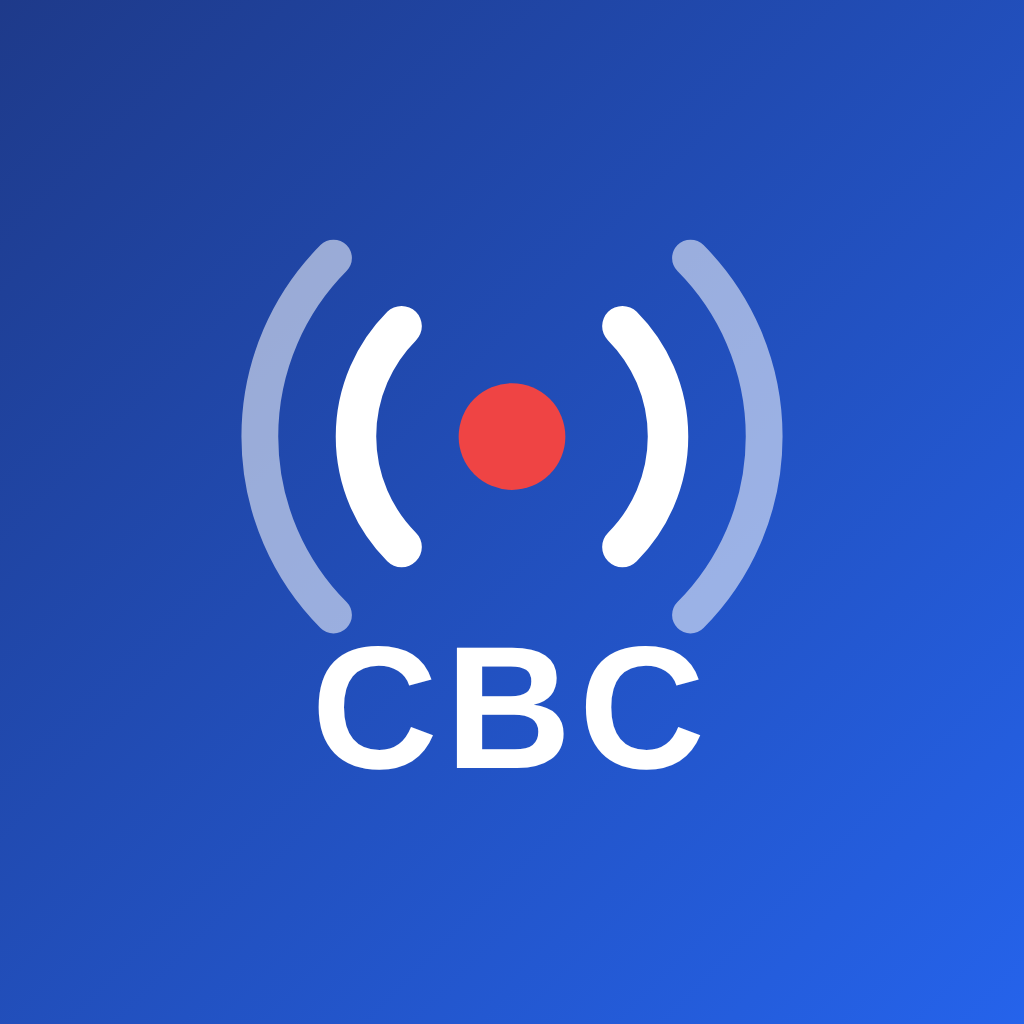
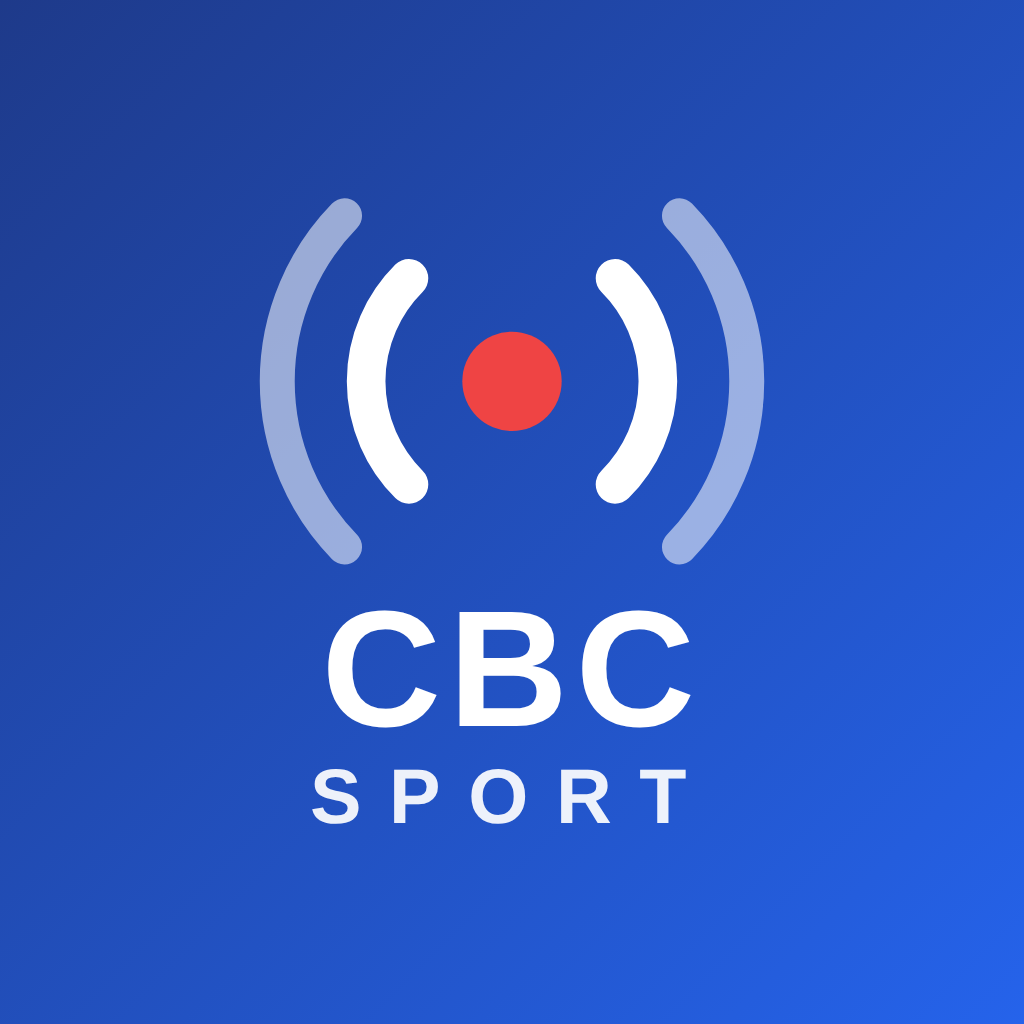
Add files via upload

Changed region(s): [[0.2188, 0.1875, 0.7812, 0.8125]]

diff --git a/www/js/app.js b/www/js/app.js
@@ -38,8 +38,7 @@
             s.shoots = []; s.people = {}; s.meta = defaultState().meta;
         }
         s.history = s.history || [];
-        s.work = Object.assign(defaultState().work, s.work || {});
-        s.work.durations = Object.assign(defaultState().work.durations, (s.work && s.work.durations) || {});
+        s.work = defaultState().work; // sabit qaydalar (ayarlar paneli çıxarılıb)
         return s;
     }
     function save() {
@@ -470,14 +469,6 @@
         const monthM = allMine().filter(s => C.monthKey(s.date) === monthKey).reduce((a, s) => a + shootMinutes(s).m, 0);
         $('month-hours').innerHTML = 'Ay üzrə cəmi: <strong class="text-gray-900">' + fmtH(monthM) + '</strong> · boz xətt — həftəlik norma';
     }
-    function renderWorkSettings() {
-        const labels = ['Futbol', 'Basketbol', 'Voleybol', 'Futzal', 'Həndbol', 'Digər'];
-        $('dur-inputs').innerHTML = labels.map(k =>
-            '<label class="flex items-center justify-between gap-1 bg-white border border-gray-200 rounded-lg px-2 py-1"><span class="text-gray-700">' + k + '</span>' +
-            '<span class="flex items-center gap-1"><input data-dur="' + k + '" type="number" min="0.5" max="12" step="0.25" inputmode="decimal" value="' + state.work.durations[k] + '" class="w-12 text-right text-sm bg-transparent"><span class="text-gray-400">s</span></span></label>').join('');
-        $('norm-input').value = state.work.norm;
-    }
-
     function updateStats() {
         const key = $('stats-month').value;
         const pal = palette();
@@ -951,18 +942,9 @@
             if (del) { deleteShoot(del.dataset.del); }
         });
 
-        $('open-stats').onclick = () => { selectedWeek = null; fillMonths(); renderWorkSettings(); $('norm-label').textContent = state.work.norm + ' saat'; updateStats(); openModal('stats-modal'); };
+        $('open-stats').onclick = () => { selectedWeek = null; fillMonths(); updateStats(); openModal('stats-modal'); };
         $('stats-month').onchange = () => { selectedWeek = null; updateStats(); };
         $('week-rows').addEventListener('click', e => { const b = e.target.closest('[data-week]'); if (b) { selectedWeek = b.dataset.week; renderWeeks($('stats-month').value); } });
-        $('dur-inputs').addEventListener('change', e => {
-            const i = e.target.closest('[data-dur]'); if (!i) return;
-            const v = parseFloat(String(i.value).replace(',', '.'));
-            if (v > 0 && v <= 12) { state.work.durations[i.dataset.dur] = v; save(); updateStats(); } else i.value = state.work.durations[i.dataset.dur];
-        });
-        $('norm-input').addEventListener('change', e => {
-            const v = parseFloat(String(e.target.value).replace(',', '.'));
-            if (v >= 1 && v <= 80) { state.work.norm = v; $('norm-label').textContent = v + ' saat'; save(); updateStats(); } else e.target.value = state.work.norm;
-        });
         $('month-bars').addEventListener('click', e => { const b = e.target.closest('[data-month]'); if (b) { $('stats-month').value = b.dataset.month; selectedWeek = null; updateStats(); } });
 
         // Yüklə → fayl seçimi → təsdiq pəncərəsi

diff --git a/www/index.html b/www/index.html
@@ -126,7 +126,7 @@
         <!-- FOOTER -->
         <footer class="pt-6 pb-2 text-center border-t border-gray-200">
             <p class="text-[11px] text-gray-500 font-medium">Bu tətbiq Hüseynov Tamerlan tərəfindən hazırlanmışdır</p>
-            <p class="text-[10px] text-gray-400 mt-0.5">CBC Sport Broadcast · v1.5</p>
+            <p class="text-[10px] text-gray-400 mt-0.5">CBC Sport Broadcast · v1.5.1</p>
         </footer>
     </main>
 
@@ -184,17 +184,6 @@
                 </div>
                 <div id="week-rows" class="space-y-1 mt-2"></div>
                 <p id="month-hours" class="text-[11px] text-gray-500 mt-2 px-1"></p>
-                <details class="mt-2 text-xs">
-                    <summary class="cursor-pointer text-blue-600 font-semibold select-none px-1"><i class="fa-solid fa-sliders mr-1"></i>Hesablama ayarları</summary>
-                    <div class="mt-2 bg-gray-50 border border-gray-100 rounded-xl p-3 space-y-2">
-                        <p class="text-[11px] text-gray-500 leading-relaxed">İş vaxtı = yığışma saatından oyunun sonuna qədər. Oyunun sonu = başlama saatı + idman növünün müddəti.</p>
-                        <div id="dur-inputs" class="grid grid-cols-2 gap-2"></div>
-                        <label class="flex items-center justify-between gap-2 pt-1 border-t border-gray-200">
-                            <span class="text-gray-700 font-medium">Həftəlik norma (saat)</span>
-                            <input id="norm-input" type="number" min="1" max="80" step="0.5" inputmode="decimal" class="w-20 border border-gray-200 rounded-lg p-1.5 bg-white text-sm text-right">
-                        </label>
-                    </div>
-                </details>
             </div>
 
             <!-- Aylar üzrə -->

diff --git a/www/css/app.css b/www/css/app.css
@@ -568,9 +568,6 @@
   .animate-pulse {
     animation: var(--animate-pulse);
   }
-  .cursor-pointer {
-    cursor: pointer;
-  }
   .resize {
     resize: both;
   }
@@ -820,9 +817,6 @@
   .bg-sky-50 {
     background-color: var(--color-sky-50);
   }
-  .bg-transparent {
-    background-color: transparent;
-  }
   .bg-white {
     background-color: var(--color-white);
   }
@@ -843,9 +837,6 @@
   }
   .p-1 {
     padding: var(--spacing);
-  }
-  .p-1\.5 {
-    padding: calc(var(--spacing) * 1.5);
   }
   .p-2 {
     padding: calc(var(--spacing) * 2);
@@ -921,9 +912,6 @@
   }
   .pt-0\.5 {
     padding-top: calc(var(--spacing) * 0.5);
-  }
-  .pt-1 {
-    padding-top: var(--spacing);
   }
   .pt-2 {
     padding-top: calc(var(--spacing) * 2);
@@ -1239,10 +1227,6 @@
     transition-property: opacity;
     transition-timing-function: var(--tw-ease, var(--default-transition-timing-function));
     transition-duration: var(--tw-duration, var(--default-transition-duration));
-  }
-  .select-none {
-    -webkit-user-select: none;
-    user-select: none;
   }
   .focus\:ring-2:focus {
     --tw-ring-shadow: var(--tw-ring-inset,) 0 0 0 calc(2px + var(--tw-ring-offset-width)) var(--tw-ring-color, currentcolor);

diff --git a/www/sw.js b/www/sw.js
@@ -1,5 +1,5 @@
 // Oflayn iş üçün sadə keş (yalnız brauzer/PWA rejimi)
-const CACHE = 'cbc-sb-v6';
+const CACHE = 'cbc-sb-v7';
 const ASSETS = ['./', 'index.html', 'css/app.css', 'vendor/fontawesome/css/all.min.css', 'vendor/jszip.min.js',
   'js/data.js', 'js/xlsx-reader.js', 'js/parser.js', 'js/weather.js', 'js/notify.js', 'js/timepicker.js', 'js/datepicker.js', 'js/app.js', 'icons/icon-192.png'];
 self.addEventListener('install', e => e.waitUntil(caches.open(CACHE).then(c => c.addAll(ASSETS)).then(() => self.skipWaiting())));

diff --git a/docs/CHANGELOG.md b/docs/CHANGELOG.md
@@ -1,5 +1,9 @@
 # Dəyişikliklər
 
+## 1.5.1 — 31.10.2026
+- "Hesablama ayarları" paneli çıxarıldı; iş saatı sabit qaydalarla hesablanır (Futbol/Basketbol/Voleybol/Digər 2 saat, Futzal/Həndbol 1.5 saat, norma 36 saat). Əvvəl dəyişdirilmiş dəyərlər sıfırlanır.
+- Tətbiq ikonasında "CBC" yazısının altına "SPORT" əlavə olundu.
+
 ## 1.5.0 — 31.10.2026
 - **Həftəlik iş saatı** (Statistika): həftə bazar ertəsindən bazara qədər; həftənin saatları dairəvi göstəricidə normaya nisbətlə (%), "normaya X qalıb" və ya "normadan X artıq" (⚠). Ayın həftələri zolaqlarla, boz xətt — norma; həftəyə toxunanda seçilir. Ay üzrə cəmi saat.
 - **Hesablama:** iş vaxtı = yığışma saatından oyunun sonuna qədər; oyunun sonu = başlama saatı + idman növünün müddəti. Saatı olmayan çəkiliş üçün yalnız oyun müddəti götürülür və "təxmini" (~) işarələnir.
